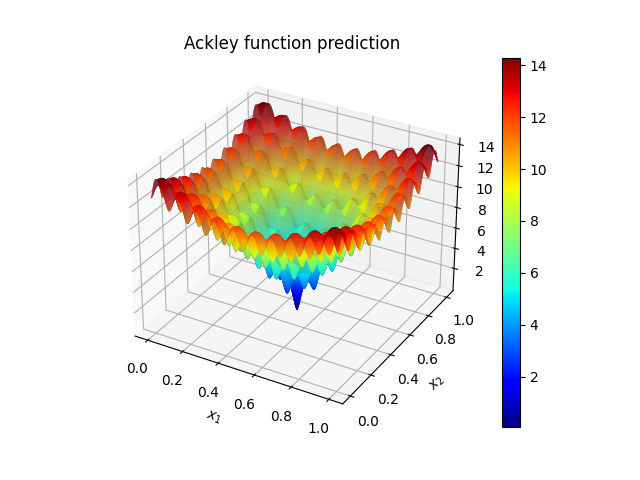
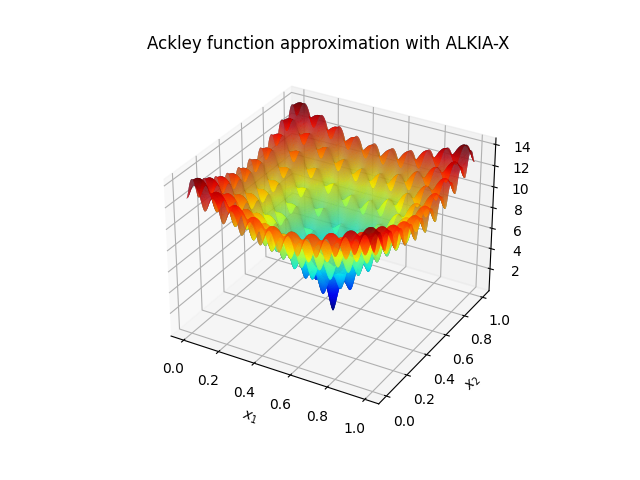
Ackley toy example

Changed region(s): [[0.1875, 0.0625, 0.875, 0.9062], [0.625, 0.875, 0.6562, 0.9062]]

diff --git a/ALKIAX_post.py b/ALKIAX_post.py
@@ -1,5 +1,5 @@
 from ALKIAX_ground_truth import waterfall_2D, sine_2D, sine_3D, plasma_python, cstr_python, ground_truth
-from ALKIAX_plot import plot_gt_2D_CSTR, plot_prediction_2D, plot_gt_2D, plot_subdomains_2D_CSTR, generate_plots_plasma
+from ALKIAX_plot import plot_gt_2D_CSTR, plot_prediction_2D, plot_gt_2D, plot_subdomains_2D_CSTR, generate_plots_plasma, plot_prediction_ackley
 from ALKIAX_functions import approximation, binary_number, decimal_number, grid
 from ALKIAX_kernel import matern_kernel
 import numpy as np
@@ -146,17 +146,15 @@ if __name__ == '__main__':
         max_error = max(abs(hX.flatten()-fX_evaluation))
         print(f'The maximum error is {max_error}, the guaranteed error was {C.epsilon}.')
     elif gt_string == 'ackley':
-        with open('C_root_ackley_5e-3.pickle', 'rb') as handle:
+        with open('C_root_ackley.pickle', 'rb') as handle:
             C = pickle.load(handle)
-        hX, X_evaluation, relevant_fev, total_fev, C, fX_evaluation = post_processing(C, round_n_digits=14, division_points=500, gt_string=gt_string)
+        hX, X_evaluation, relevant_fev, total_fev, C, fX_evaluation = post_processing(C, round_n_digits=14, division_points=300, gt_string=gt_string)
         # Plot the ground truth and the prediction
-        # plot_gt_2D(X_evaluation, fX_evaluation)
-        # plot_prediction_2D(X_evaluation, hX.flatten())
+        plot_gt_2D(X_evaluation, fX_evaluation)
+        plot_prediction_ackley(X_evaluation, hX.flatten())
         # Determine maximum evaluation error
         max_error = max(abs(hX.flatten()-fX_evaluation))
         print(f'The maximum error is {max_error}, the guaranteed error was {C.epsilon}.')
-
-    
     elif gt_string == 'plasma_python':
         t = time.time()
         solver, lb_relaxed, ub_relaxed, con_lb, con_ub, n, m, N = plasma_MPC_get_solver()

diff --git a/ALKIAX_plot.py b/ALKIAX_plot.py
@@ -17,29 +17,21 @@ def plot_gt_2D(X, fX):
     plt.ylabel('$x_2$')
     ax.set_zlabel('$f(x)$')
     plt.title('Ground Truth')
-    plt.show()
+    # plt.show()
 
 
-def plot_error(X, hX, fX, epsilon):
+def plot_prediction_ackley(X, hX):
     fig = plt.figure()
     ax = fig.add_subplot(projection='3d')
-    error = np.abs(hX-fX)
-
-    # Envelope the function values with plus and minus epsilon
-    error_bound = [epsilon]*X.shape[0]
-
-    # Plot the original surface
-    ax.plot_trisurf(X[:, 0], X[:, 1], error, alpha=1, cmap=cm.jet, linewidth=0)
-
-    # Plot the enveloped surfaces with very transparent color
-    ax.plot_trisurf(X[:, 0], X[:, 1], error_bound, color='black', alpha=0.1, linewidth=0)
-
+    ax.plot_trisurf(X[:, 0], X[:, 1], hX)
+    surf = ax.plot_trisurf(X[:, 0], X[:, 1], hX, cmap=cm.jet, linewidth=0)
+    # fig.colorbar(surf)
     plt.xlabel('$x_1$')
     plt.ylabel('$x_2$')
-    ax.set_zlabel('Error')
-    plt.title('Ackley function')
-    plt.show()
-
+    # ax.set_zlabel('$h(x)$')
+    plt.title('Ackley function approximation with ALKIA-X')
+    plt.savefig('ackley.png')
+    # plt.show()
 
 
 def plot_gt_2D_CSTR(X_evaluation, fX_evaluation):

diff --git a/ALKIAX_main.py b/ALKIAX_main.py
@@ -34,7 +34,7 @@ max_storage_termination (int): in mega-byte, upper bound on the size of the file
     -> Useful for capacity constraints of, e.g., microcontrollers
     -> Set max_storage_termination = np.inf to only break when sufficient accuracy is guaranteed
 '''
-epsilon = 5e-3  # max allowed error
+epsilon = 5e-2  # max allowed error
 round_n_digits = 14  # rounding
 gt_string = 'ackley'
 x_dim, y_dim = ground_truth_dimensions(gt_string)
@@ -220,5 +220,5 @@ time_elapsed_total = time.time() - current_time
 print(f'Total time: {time_elapsed_total}')
 C_root.time_elapsed = time_elapsed_total
 C_root.epsilon = epsilon
-with open('ackley_5e-3.pickle', 'wb') as handle:
+with open('ackley.pickle', 'wb') as handle:
    pickle.dump(C_root, handle, protocol=pickle.HIGHEST_PROTOCOL)
